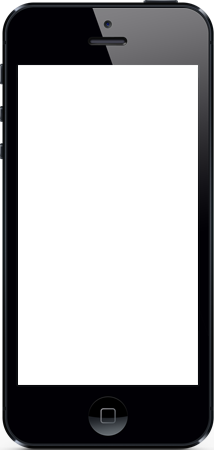
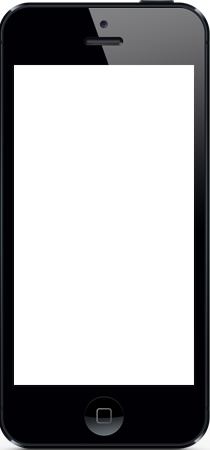
112

diff --git a/app/assets/stylesheets/stylejs.css b/app/assets/stylesheets/stylejs.css
@@ -13,10 +13,15 @@
 	float: left;
 	z-index: 10;
 }
+.iphone2{
+	width:3px;
+	background: url(iphonept1.png);
+	padding-left: 3px;
+}
 .iphone{
 	background: url(iphoneback.png) no-repeat;
-	background-position: 18px center;
-	width: 214px;
+	background-position: 14px center;
+	width: 210px;
 	padding-top: 6px;
 }
 .bottom_link{
